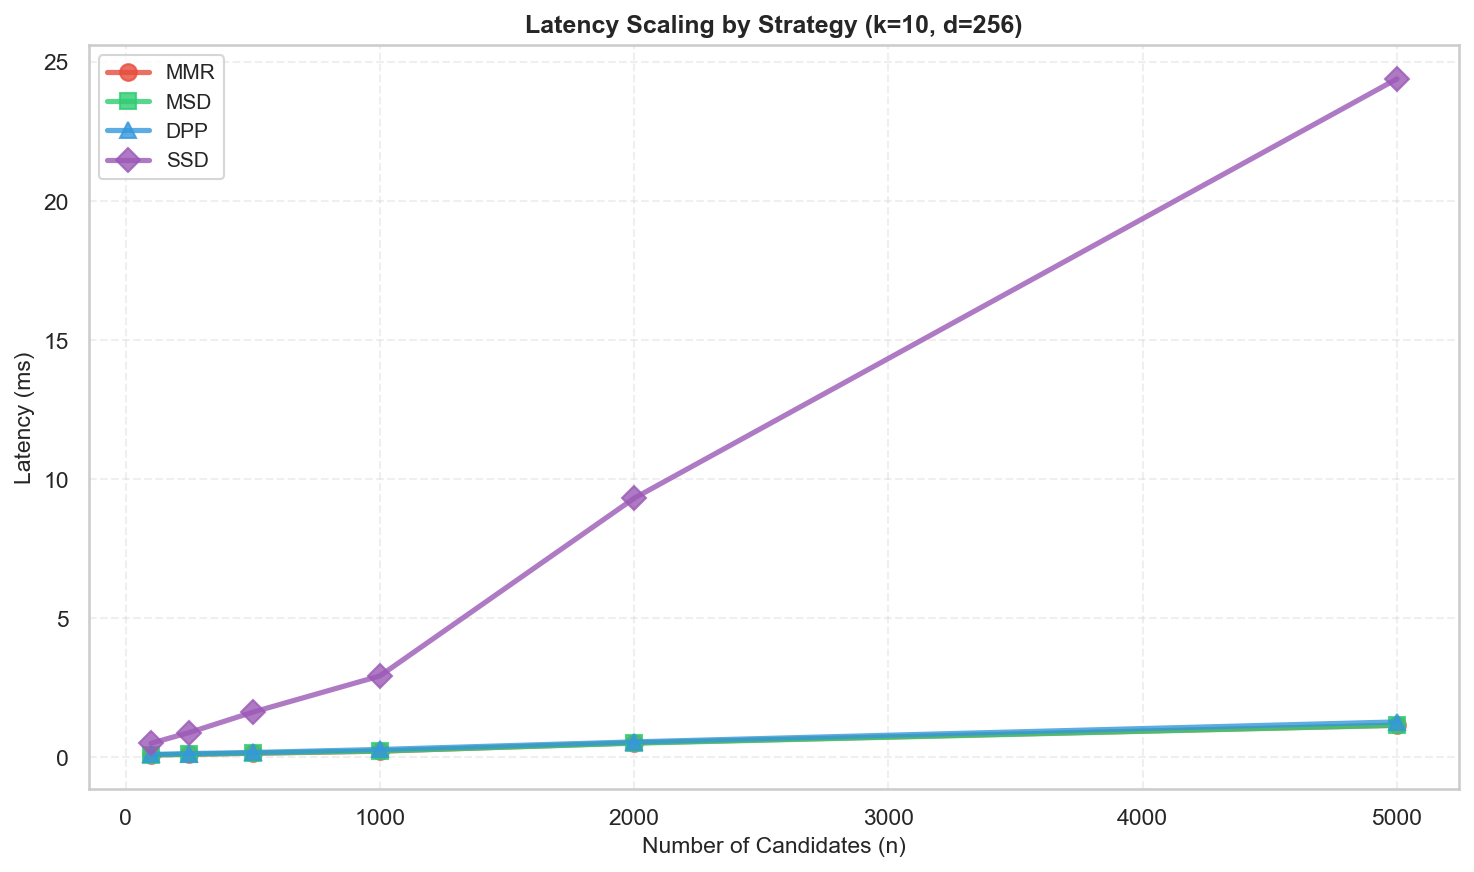
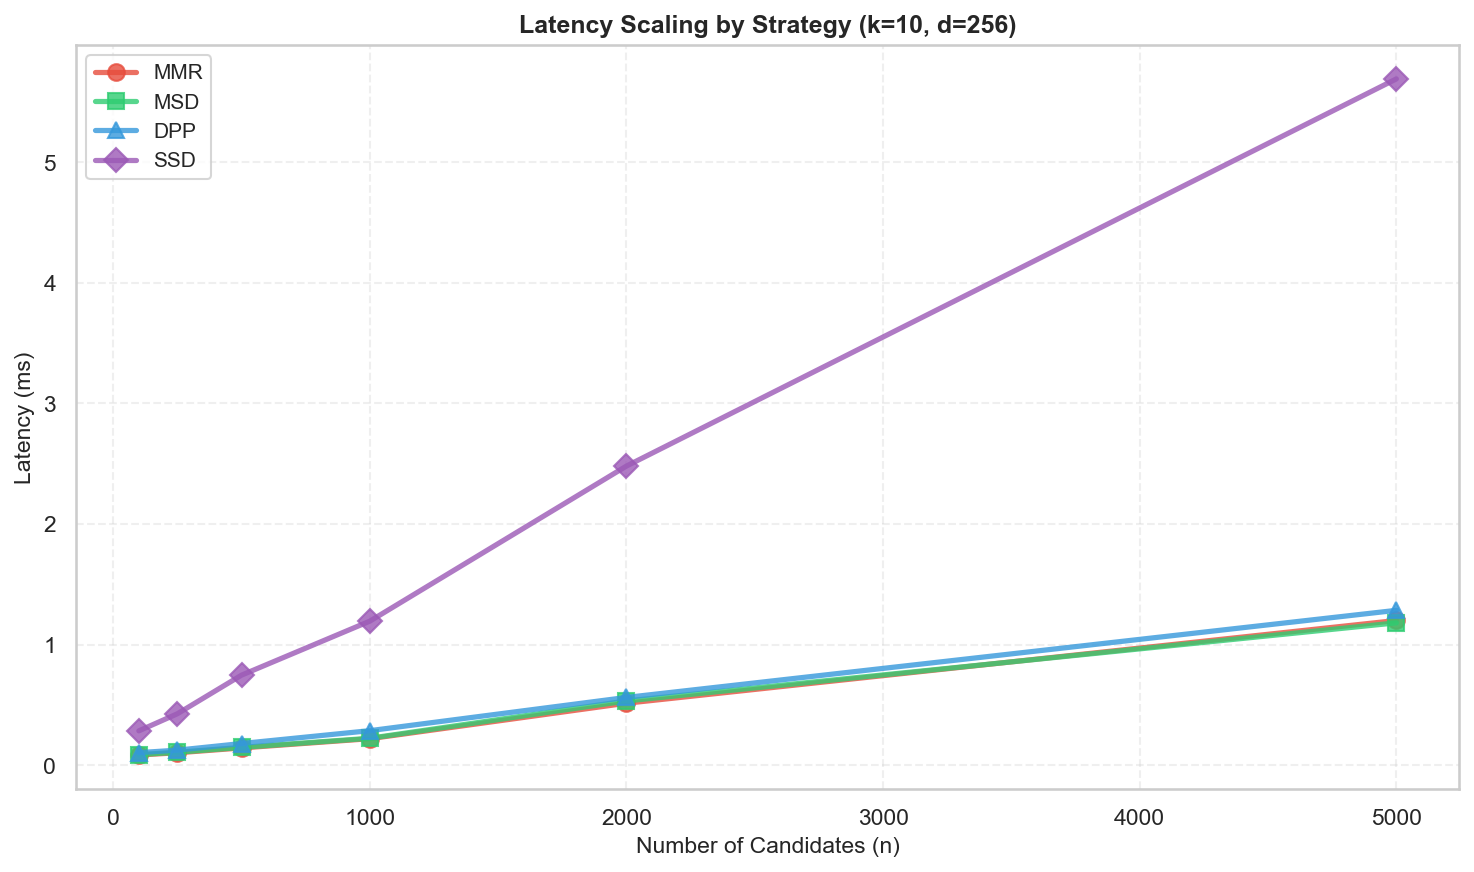
feat: Optimize SSD (#26)
* Optimized SSD performance

* Improved comments and variable names

* Updated readme

* Updated plot and table, relaxed dependencies

* Updated readme

* Bumped version

diff --git a/src/pyversity/strategies/ssd.py b/src/pyversity/strategies/ssd.py
@@ -113,7 +113,7 @@ def ssd(  # noqa: C901
         std = float(np.std(relevance_scores))
         relevance_scores = (relevance_scores - mean) / std if std > 0.0 else (relevance_scores - mean)
 
-    num_items, _ = feature_matrix.shape
+    num_items, n_dims = feature_matrix.shape
 
     # Initialize selection state
     selected_mask = np.zeros(num_items, dtype=bool)
@@ -123,31 +123,61 @@ def ssd(  # noqa: C901
     # Current residuals under the sliding window
     residual_matrix = feature_matrix.astype(np.float32, copy=True)
 
-    # Sliding window storage
-    basis_vectors: list[np.ndarray] = []
-    projection_coefficients_per_basis: list[np.ndarray] = []
+    # Squared residual norms, maintained incrementally to avoid recomputing from the full matrix
+    residual_sq_norms: np.ndarray = np.einsum("ij,ij->i", residual_matrix, residual_matrix)
+
+    # Circular buffer for sliding window of basis vectors and their projection coefficients
+    basis_matrix = np.zeros((window_size, n_dims), dtype=np.float32)
+    coeff_matrix = np.zeros((window_size, num_items), dtype=np.float32)
+    window_count = 0
+    window_head = 0
+
+    # Re-used buffer for rank-1 matrix updates (avoids allocating a new n×d array each step)
+    update_buffer = np.empty((num_items, n_dims), dtype=np.float32)
 
     def _push_basis_vector(basis_vector: np.ndarray) -> None:
         """Add a new basis vector to the sliding window and update residuals/projections."""
-        if len(basis_vectors) == window_size:
-            # Remove oldest basis and restore its contribution to residuals
-            oldest_basis = basis_vectors.pop(0)
-            oldest_coefficients = projection_coefficients_per_basis.pop(0)
-            mask_unselected = ~selected_mask
-            if np.any(mask_unselected):
-                residual_matrix[mask_unselected] += oldest_coefficients[mask_unselected, None] * oldest_basis
+        nonlocal window_count, window_head
 
-        denominator = float(basis_vector @ basis_vector) + EPS32
-        basis_vectors.append(basis_vector.astype(np.float32, copy=False))
+        if window_count == window_size:
+            # Evict the oldest basis and restore its contribution to residuals.
+            # Skip selected items so their residuals stay untouched.
+            oldest_slot = window_head
+            coeff_matrix[oldest_slot][selected_mask] = 0.0
+            evicted_coefficients = coeff_matrix[oldest_slot]
+            evicted_basis = basis_matrix[oldest_slot]
+            evicted_basis_sq_norm = float(evicted_basis @ evicted_basis)
 
-        mask_unselected = ~selected_mask
-        coefficients = np.zeros(num_items, dtype=np.float32)
-        if np.any(mask_unselected):
-            projections = (residual_matrix[mask_unselected] @ basis_vector) / denominator
-            coefficients[mask_unselected] = projections
-            residual_matrix[mask_unselected] -= projections[:, None] * basis_vector
+            # Update squared norms to reflect the restored residuals
+            projections = residual_matrix @ evicted_basis
+            residual_sq_norms[:] += evicted_coefficients * (
+                2.0 * projections + evicted_coefficients * evicted_basis_sq_norm
+            )
 
-        projection_coefficients_per_basis.append(coefficients)
+            # Restore residuals by adding back the evicted projection
+            np.outer(evicted_coefficients, evicted_basis, out=update_buffer)
+            np.add(residual_matrix, update_buffer, out=residual_matrix)
+        else:
+            window_count += 1
+
+        basis_sq_norm = float(basis_vector @ basis_vector)
+        denominator = basis_sq_norm + EPS32
+        basis_matrix[window_head] = basis_vector
+
+        # Project each item's residual onto the new basis vector
+        projections = residual_matrix @ basis_vector
+        coefficients = projections / denominator
+        coefficients[selected_mask] = 0.0
+        coeff_matrix[window_head] = coefficients
+
+        # Update squared norms to reflect the removed projection
+        residual_sq_norms[:] -= coefficients * (2.0 * projections - coefficients * basis_sq_norm)
+        np.maximum(residual_sq_norms, 0.0, out=residual_sq_norms)
+
+        # Subtract projection from residuals
+        np.outer(coefficients, basis_vector, out=update_buffer)
+        np.subtract(residual_matrix, update_buffer, out=residual_matrix)
+        window_head = (window_head + 1) % window_size
 
     # Seed with recent context (oldest → newest) if provided
     seeded_bases = 0
@@ -156,16 +186,18 @@ def ssd(  # noqa: C901
         context = context[-window_size:]  # keep only the latest `window_size` items
         for context_vector in context:
             residual_context = context_vector.copy()
-            for basis in basis_vectors:
-                denominator_b = float(basis @ basis) + EPS32
-                residual_context -= float(residual_context @ basis) / denominator_b * basis
+            for slot_offset in range(window_count):
+                slot_idx = (window_head - window_count + slot_offset) % window_size
+                basis = basis_matrix[slot_idx]
+                denominator = float(basis @ basis) + EPS32
+                residual_context -= float(residual_context @ basis) / denominator * basis
             _push_basis_vector(residual_context)
             seeded_bases += 1
 
     # Decide what to select first
     if seeded_bases > 0:
         # Use combined scores with diversity from seeded context
-        residual_norms = np.linalg.norm(residual_matrix, axis=1)
+        residual_norms = np.sqrt(residual_sq_norms)
         combined_scores = theta * relevance_scores + (1.0 - theta) * gamma * residual_norms
         combined_scores[selected_mask] = -np.inf
         first_index = int(np.argmax(combined_scores))
@@ -186,14 +218,12 @@ def ssd(  # noqa: C901
 
     # Main loop
     for step in range(1, top_k):
-        # Find best candidate among unselected items
-        available_indices = np.where(~selected_mask)[0]
-        # Residual norms measure novelty relative to the last `window` selections/context
-        residual_norms = np.linalg.norm(residual_matrix[available_indices], axis=1)
-        combined_scores = theta * relevance_scores[available_indices] + (1.0 - theta) * gamma * residual_norms
-        local_best = int(np.argmax(combined_scores))
-        best_index = int(available_indices[local_best])
-        best_score = float(combined_scores[local_best])
+        # Residual norms measure novelty relative to the sliding window of recent selections/context
+        residual_norms = np.sqrt(residual_sq_norms)
+        combined_scores = theta * relevance_scores + (1.0 - theta) * gamma * residual_norms
+        combined_scores[selected_mask] = -np.inf
+        best_index = int(np.argmax(combined_scores))
+        best_score = float(combined_scores[best_index])
 
         # Update selection state
         selected_mask[best_index] = True

diff --git a/src/pyversity/version.py b/src/pyversity/version.py
@@ -1,2 +1,2 @@
-__version_triple__ = (0, 1, 1)
+__version_triple__ = (0, 2, 0)
 __version__ = ".".join(map(str, __version_triple__))

diff --git a/benchmarks/README.md b/benchmarks/README.md
@@ -86,22 +86,20 @@ Best diversity per strategy while maintaining ≥95% of baseline nDCG, ranked by
 
 ## Latency
 
-All strategies are fast. Even with 10,000 candidates, all complete in <100ms. The plot below shows latency scaling measured on a **separate synthetic benchmark** (k=10, d=256 embeddings, typical for modern embedding models):
+All strategies are fast. Even with 10,000 candidates, all complete in <15ms. The plot below shows latency scaling measured on a **separate synthetic benchmark** (k=10, d=256 embeddings):
 
 ![Latency vs Candidates](results/latency.png)
 
 - **Typical use case** (100 candidates): all strategies complete in <1ms
-- **MMR/MSD/DPP** are same order of magnitude; DPP is modestly slower at scale
-- **SSD** is slower due to Gram-Schmidt orthogonalization, which scales with embedding dimension
+- **MMR/MSD/DPP** are same order of magnitude
+- **SSD** is moderately slower due to per-step residual matrix updates
 
 | Strategy | 100 candidates | 1,000 candidates | 10,000 candidates |
 |----------|----------------|------------------|-------------------|
-| MMR | ~0.1ms | ~1ms | ~10ms |
-| MSD | ~0.1ms | ~1ms | ~10ms |
-| DPP | ~0.1ms | ~2ms | ~20ms |
-| SSD | ~0.5ms | ~5ms | ~80ms |
-
-*Measured with k=10 items selected, d=256 dimensional embeddings. Note: main benchmarks use d=64; latency benchmark uses d=256 to reflect modern embedding model dimensions.*
+| MMR | ~0.1ms | ~0.2ms | ~2ms |
+| MSD | ~0.1ms | ~0.2ms | ~2ms |
+| DPP | ~0.1ms | ~0.3ms | ~2ms |
+| SSD | ~0.3ms | ~1ms | ~12ms |
 
 ## Detailed Results
 

diff --git a/README.md b/README.md
@@ -77,6 +77,8 @@ The papers linked in [references](#references) provide more details on each stra
 | **COVER** (Facility-Location)         | Ensures selected items collectively represent the full dataset's structure.                    | **O(k · n²)**             | Great for topic coverage or clustering scenarios, but slower for large `n`. |
 | **SSD** (Sliding Spectrum Decomposition) | Sequence‑aware diversification: rewards novelty relative to recently shown items.     | **O(k · n · d)**          | Great for content feeds & infinite scroll where users consume sequentially. Recommended `diversity`: 0.6–0.9 |
 
+Where **k** = number of items to select, **n** = number of candidates, **d** = embedding dimensionality.
+
 ## Benchmarks
 
 All strategies are evaluated across 4 recommendation datasets. Full methodology and detailed results can be found in [`benchmarks`](benchmarks/).
